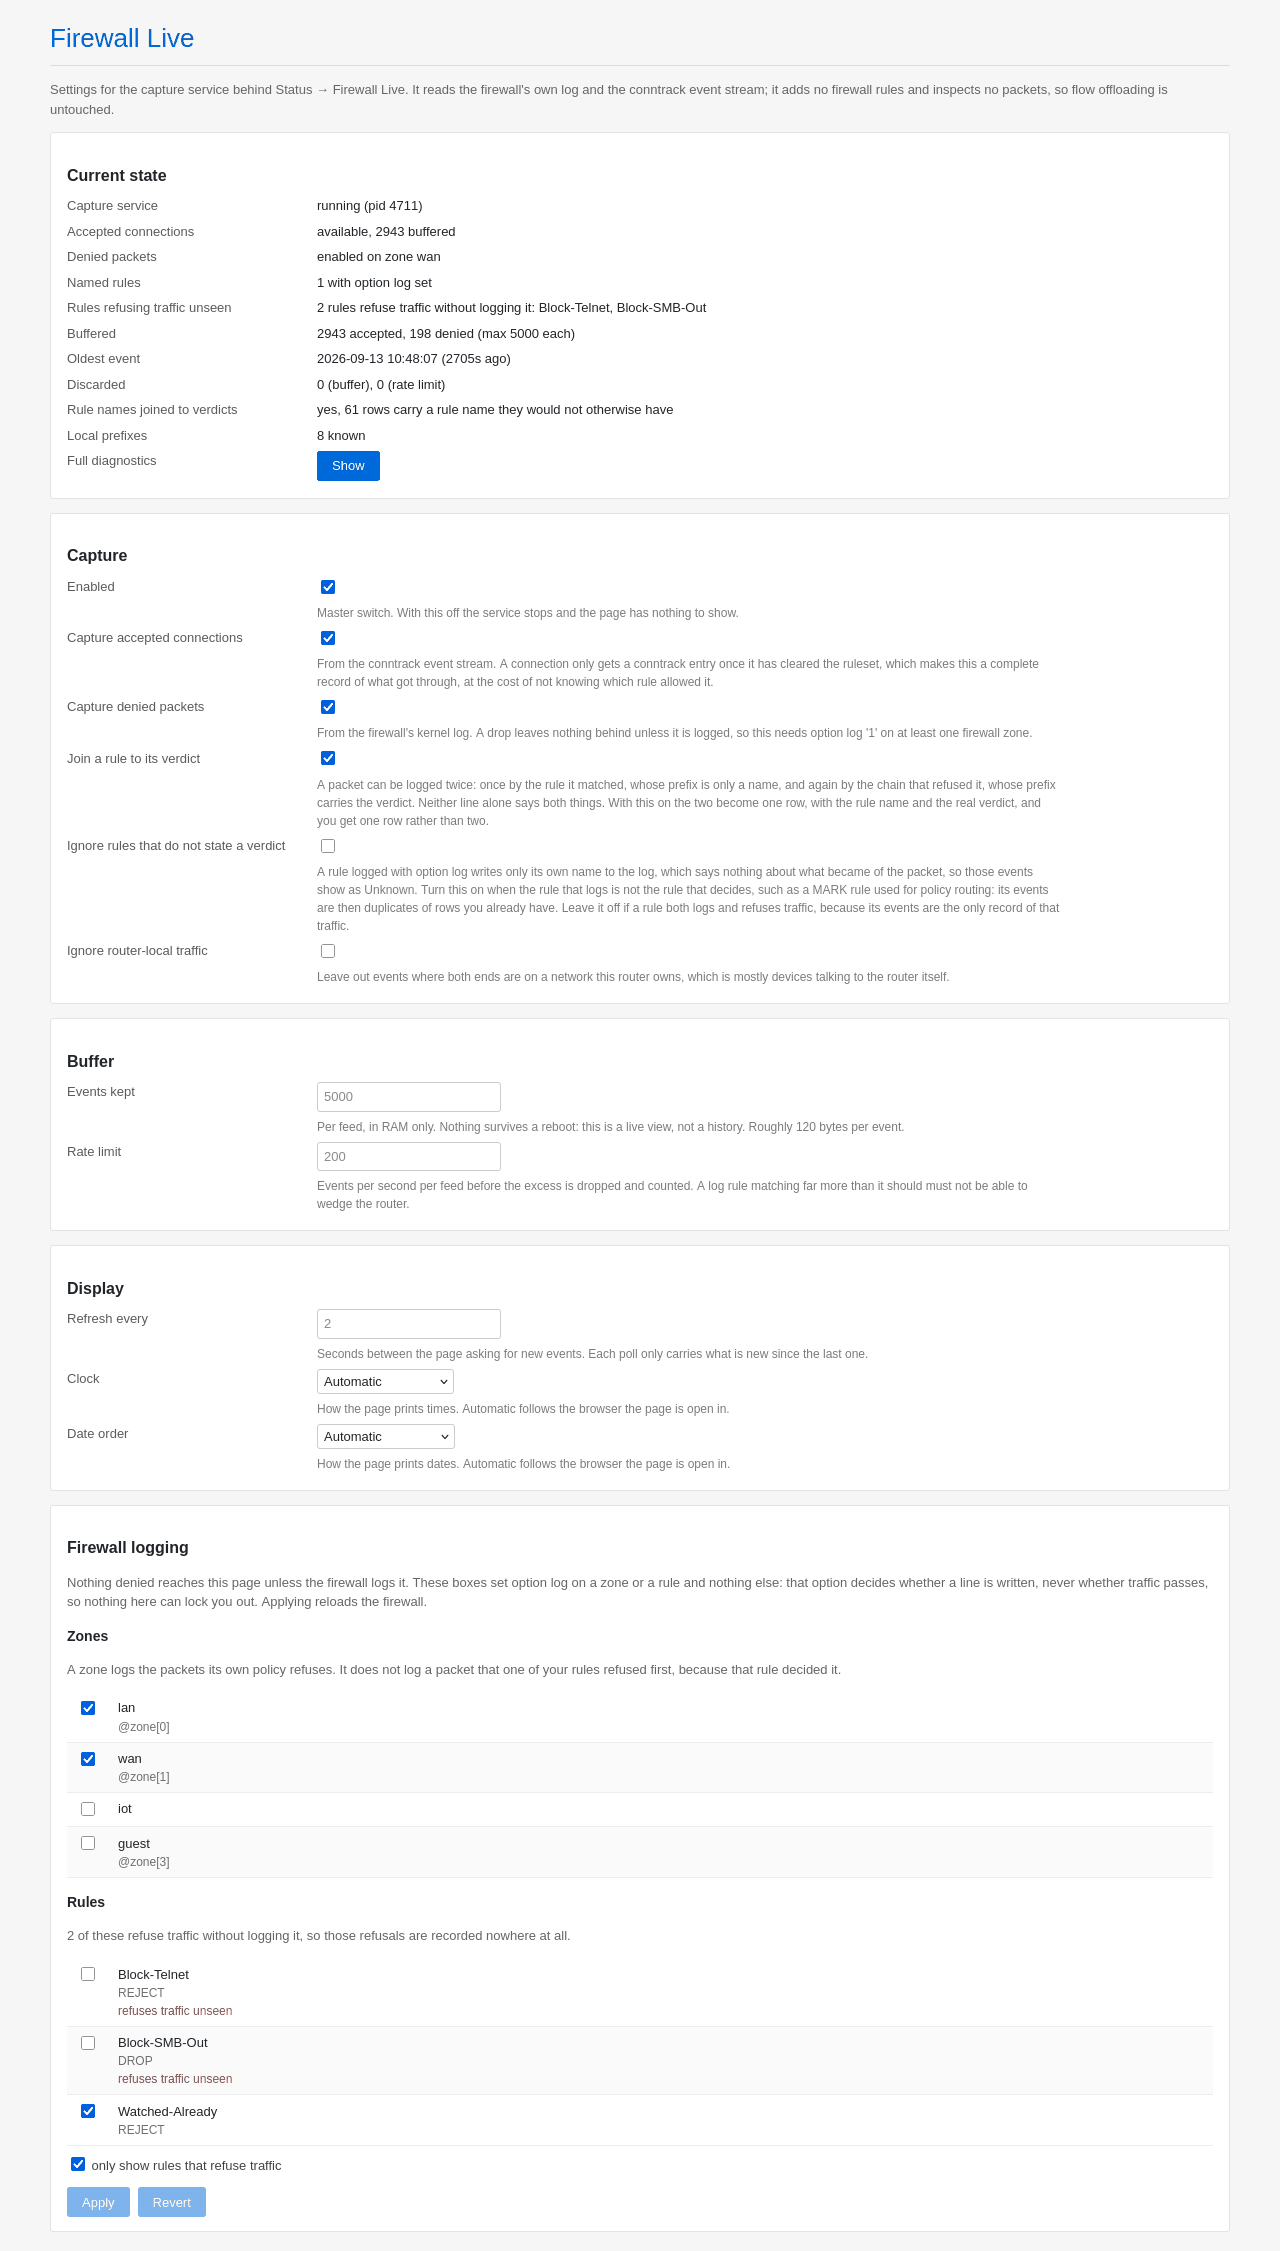
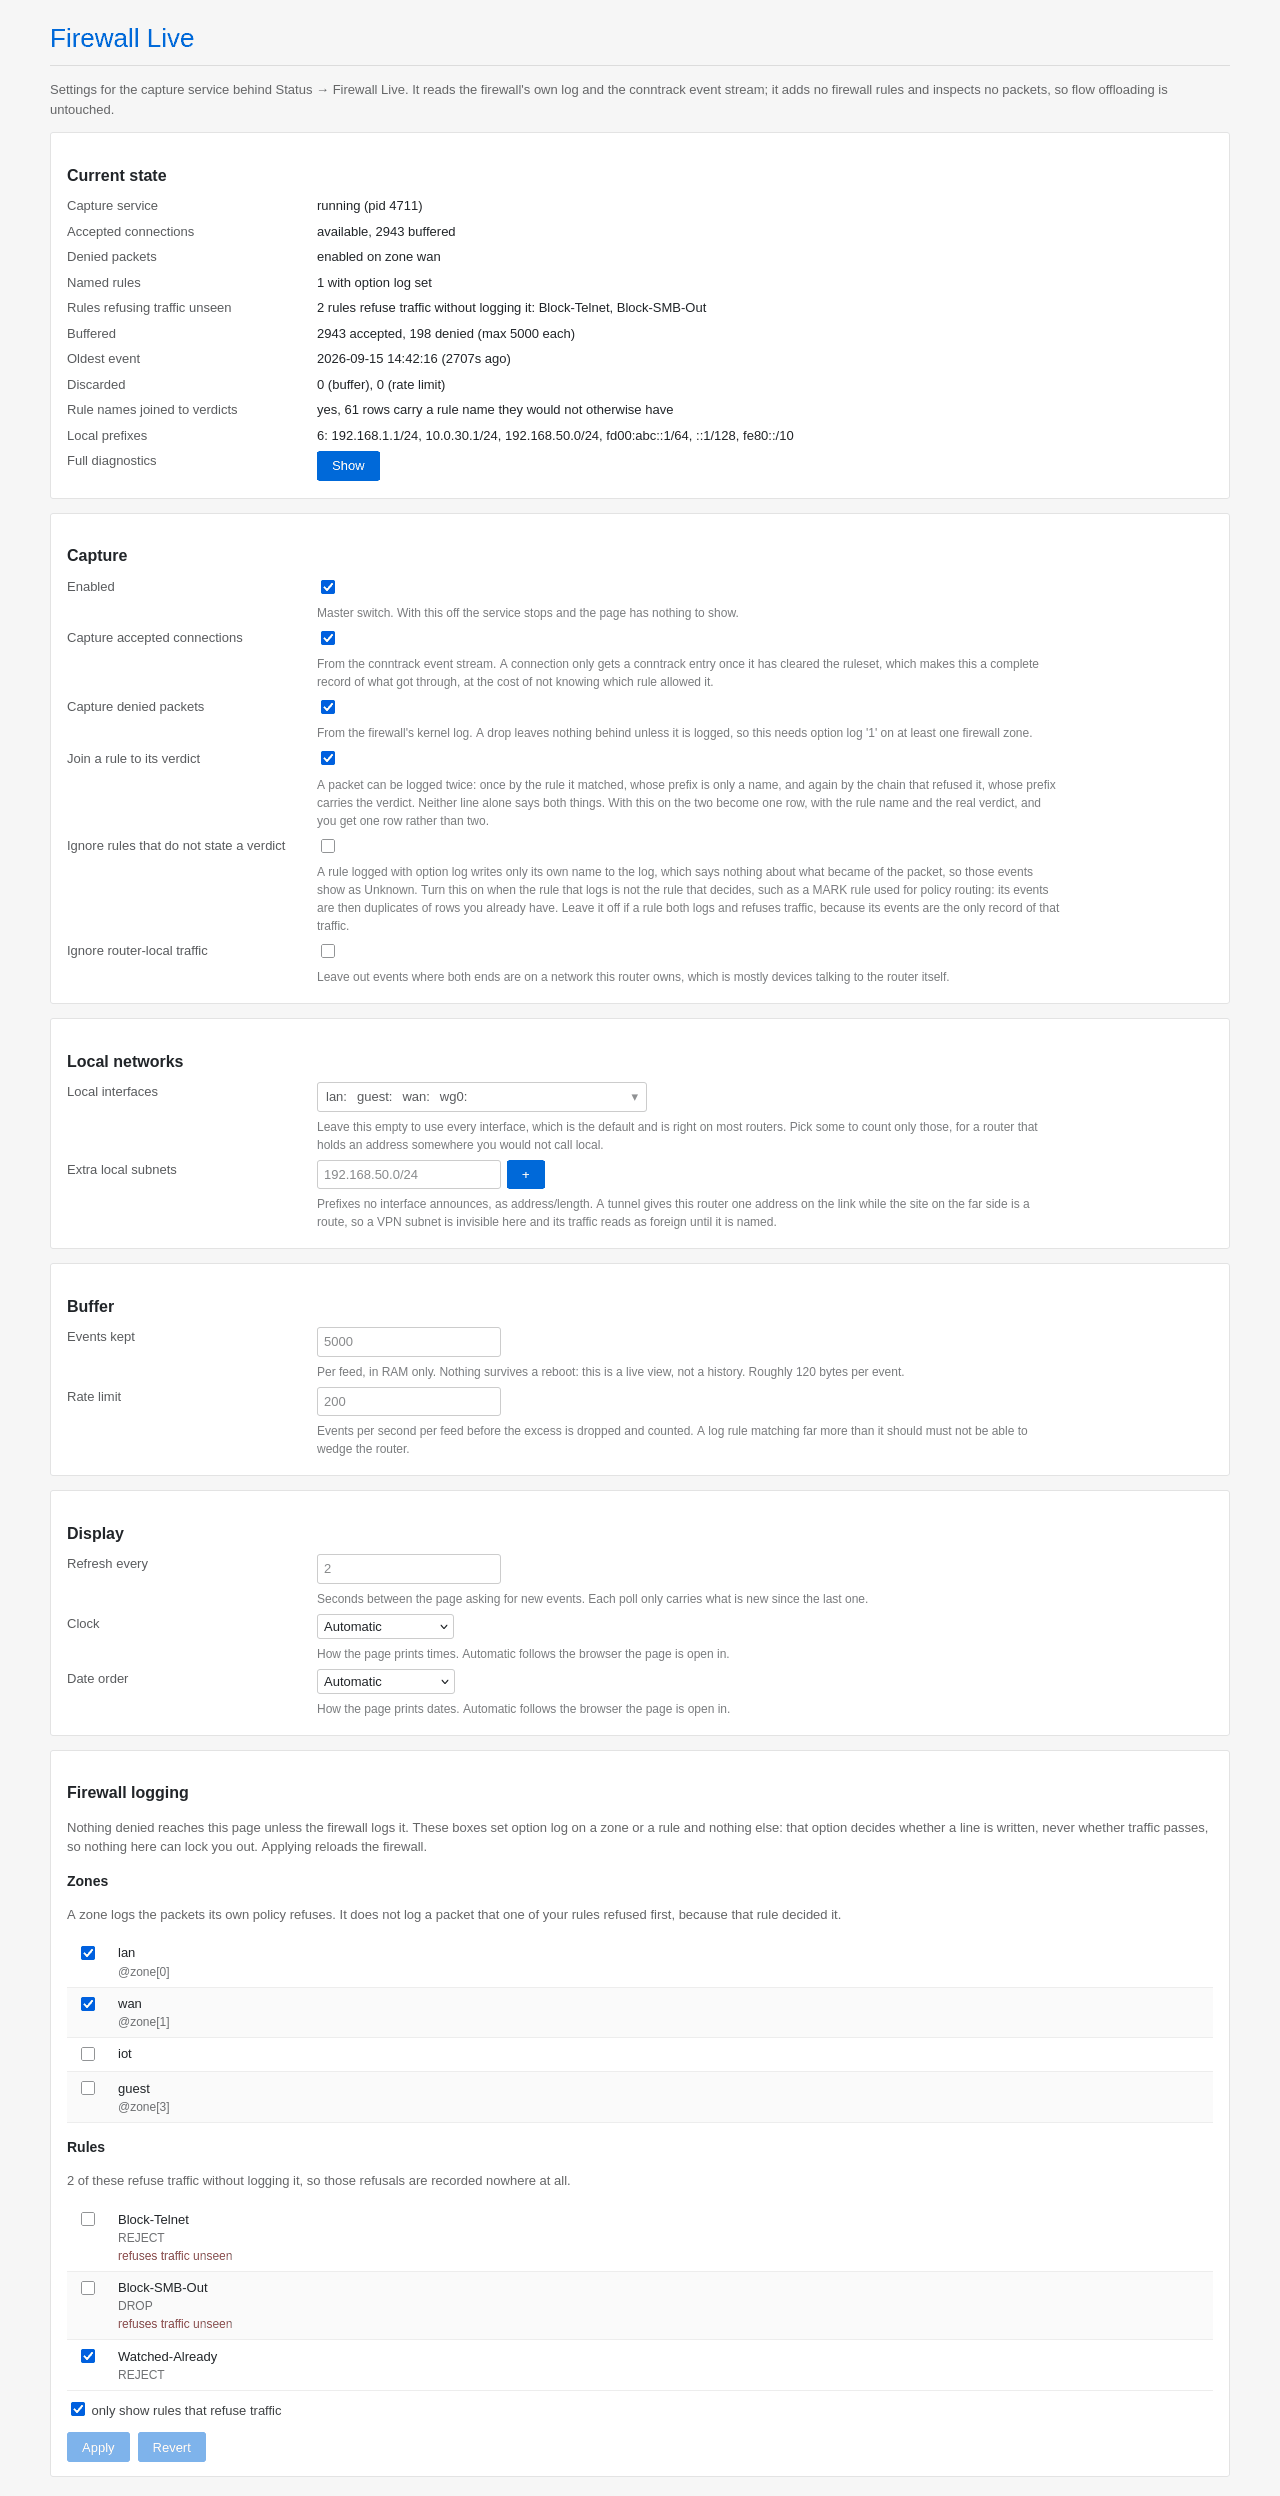
Let the user say what counts as a local network

diff --git a/package/luci-app-fw-live/files/www/luci-static/resources/view/fw-live/settings.js b/package/luci-app-fw-live/files/www/luci-static/resources/view/fw-live/settings.js
@@ -1,6 +1,7 @@
 'use strict';
 'require view';
 'require form';
+'require tools.widgets as widgets';
 'require rpc';
 'require ui';
 
@@ -295,6 +296,32 @@ return view.extend({
 			  'mostly devices talking to the router itself.'));
 		o.default = '0';
 		o.rmempty = false;
+
+		s = m.section(form.NamedSection, 'main', 'fw_live', _('Local networks'));
+		s.anonymous = true;
+		s.addremove = false;
+		s.description = _('What counts as local decides the direction column, In, Out or ' +
+			'Local, and what the setting above leaves out. Every address this router ' +
+			'holds is found on its own; these two are for saying it differently.');
+
+		// The same control the rest of LuCI uses to pick networks, so the list
+		// carries each one's device and reads like Network -> Interfaces does.
+		o = s.option(widgets.NetworkSelect, 'local_network', _('Local interfaces'),
+			_('Leave this empty to use every interface, which is the default and is ' +
+			  'right on most routers. Pick some to count only those, for a router that ' +
+			  'holds an address somewhere you would not call local.'));
+		o.multiple = true;
+		o.nocreate = true;
+		o.rmempty = true;
+
+		o = s.option(form.DynamicList, 'local_subnet', _('Extra local subnets'),
+			_('Prefixes no interface announces, as address/length. A tunnel gives this ' +
+			  'router one address on the link while the site on the far side is a route, ' +
+			  'so a VPN subnet is invisible here and its traffic reads as foreign until ' +
+			  'it is named.'));
+		o.datatype = 'cidr';
+		o.placeholder = '192.168.50.0/24';
+		o.rmempty = true;
 
 		s = m.section(form.NamedSection, 'main', 'fw_live', _('Buffer'));
 		s.anonymous = true;

diff --git a/tools/preview.py b/tools/preview.py
@@ -110,7 +110,8 @@ STATUS = {"status": {
     "ignore unknown": "no",
     "merge rules": "yes, 61 rows carry a rule name they would not otherwise have",
     "event rate": "7.6/s accepted, 3.6/s denied",
-    "local prefixes": "8 known",
+    "local prefixes": "6: 192.168.1.1/24, 10.0.30.1/24, 192.168.50.0/24, "
+                      "fd00:abc::1/64, ::1/128, fe80::/10",
 }}
 
 # Close enough to LuCI's bootstrap themes to be honest about the layout. The
@@ -457,6 +458,7 @@ const ui = {
 const form = {
 	NamedSection: 'NamedSection', DummyValue: 'DummyValue', Value: 'Value',
 	Flag: 'Flag', ListValue: 'ListValue', Button: 'Button',
+	DynamicList: 'DynamicList',
 	Map: function (cfg, title, descr) {
 		this.secs = [];
 		this.section = function (kind, name, type, label) {
@@ -497,6 +499,21 @@ const form = {
 					}
 					else if (o.type === 'Button') {
 						val.appendChild(E('button', { 'class': 'cbi-button' }, o.inputtitle || _('Go')));
+					}
+					else if (o.type === 'NetworkSelect') {
+						// luci-base draws each network with its device; the shape
+						// is what matters here, not the icons
+						val.appendChild(E('div', { 'class': 'cbi-dropdown', style:
+							'border:1px solid rgba(128,128,128,0.4);border-radius:3px;' +
+							'padding:4px 8px;display:inline-block;min-width:24em' },
+							FAKE_NETWORKS.map(function (n) {
+								return E('span', { style: 'margin-right:10px;opacity:0.75' }, n + ':');
+							}).concat([ E('span', { style: 'float:right;opacity:0.5' }, '\u25be') ])));
+					}
+					else if (o.type === 'DynamicList') {
+						val.appendChild(E('input', { type: 'text', 'class': 'cbi-input-text',
+							placeholder: o.placeholder || '' }));
+						val.appendChild(E('button', { 'class': 'cbi-button', style: 'margin-left:6px' }, '+'));
 					}
 					else if (o.rawhtml) val.innerHTML = v;
 					else val.textContent = String(v);
@@ -571,8 +588,14 @@ def write_settings_page(work, dark=False, fixture=None):
 <script>
 window.FIXTURE = %s;
 %s
-const mod = new Function('view', 'form', 'rpc', 'ui', 'E', '_', 'L',
-	document.getElementById('viewsrc').textContent)(view, form, rpc, ui, E, _, L);
+// The names the settings view requires, in the order it lists them. network
+// comes from the shared stubs above, which both pages get.
+// What the settings view requires, in the order it lists them. tools.widgets
+// is luci-base's, and only the one control used from it is stubbed.
+const FAKE_NETWORKS = [ 'lan', 'guest', 'wan', 'wg0' ];
+const widgets = { NetworkSelect: 'NetworkSelect' };
+const mod = new Function('view', 'form', 'widgets', 'rpc', 'ui', 'E', '_', 'L',
+	document.getElementById('viewsrc').textContent)(view, form, widgets, rpc, ui, E, _, L);
 mod.load().then(function (res) {
 	return mod.render(res);
 }).then(function (node) {

diff --git a/README.md b/README.md
@@ -1,4 +1,4 @@
-# luci-app-fw-live 1.0.5
+# luci-app-fw-live 1.0.6
 
 A live view of what your firewall is accepting and refusing, for OpenWrt. It
 shows connections as they happen, under **Status → Firewall Live**, with a
@@ -70,13 +70,13 @@ same file works on any target. Take the one your release can install, from the
 
 OpenWrt 25.12 and newer, `luci-app-fw-live-<version>.apk`:
 
-    scp luci-app-fw-live-1.0.5-r1.apk root@192.168.1.1:/tmp/
-    ssh root@192.168.1.1 'apk add --allow-untrusted /tmp/luci-app-fw-live-1.0.5-r1.apk'
+    scp luci-app-fw-live-1.0.6-r1.apk root@192.168.1.1:/tmp/
+    ssh root@192.168.1.1 'apk add --allow-untrusted /tmp/luci-app-fw-live-1.0.6-r1.apk'
 
 OpenWrt 24.10 and older, `luci-app-fw-live_<version>_all.ipk`:
 
-    scp luci-app-fw-live_1.0.5-1_all.ipk root@192.168.1.1:/tmp/
-    ssh root@192.168.1.1 'opkg install /tmp/luci-app-fw-live_1.0.5-1_all.ipk'
+    scp luci-app-fw-live_1.0.6-1_all.ipk root@192.168.1.1:/tmp/
+    ssh root@192.168.1.1 'opkg install /tmp/luci-app-fw-live_1.0.6-1_all.ipk'
 
 **Option B: no package manager.** Copy the source tree to the router and run
 `install.sh` on it:
@@ -393,6 +393,8 @@ The same options live in `/etc/config/fw-live`:
 | `max_rate` | `200` | events/second per feed before the excess is shed |
 | `poll_interval` | `2` | how often the page asks for new events, seconds |
 | `ignore_local` | `0` | drop events with both ends on a local network |
+| `local_network` | every interface | list: uci network interfaces that count as local |
+| `local_subnet` | none | list: extra local prefixes, as `address/length` |
 | `merge_rules` | `1` | fold a rule's log line into the verdict line for the same packet |
 | `ignore_unknown` | `0` | drop log events whose prefix does not state a verdict |
 | `time_format` | `auto` | clock: `auto`, `24` or `12` |
@@ -414,6 +416,13 @@ far more than it should, the excess is counted and dropped rather than allowed
 to fill RAM; the count shows up as `discarded` in the status output and on the
 page. `ignore_local` is worth turning on if most of what you see is devices
 talking to the router itself.
+
+What counts as local decides the direction column and what `ignore_local`
+leaves out. Every address the router holds is found on its own, so both list
+options are usually unset. `local_subnet` is the one worth knowing about: a
+tunnel gives the router one address on the link while the site on the far side
+is a route, so a VPN subnet is invisible to netifd and its traffic reads as
+foreign until it is named.
 
 ## Troubleshooting
 

diff --git a/CLAUDE.md b/CLAUDE.md
@@ -449,6 +449,15 @@ Worth not repeating:
   the default rule run `make` in an empty build directory and fail.
 - Forgetting `/tmp/luci-modulecache` when clearing LuCI caches, so a newly
   installed page stays invisible until something else invalidates it.
+- **A second `const network` in the preview's settings page**, from adding
+  `'require network'` to `settings.js` without noticing that `tools/preview.py`
+  already declares that stub for the live page. A duplicate `const` is a parse
+  error, so the whole inline script died before the `catch` that is there to
+  print what went wrong: `--screenshots` produced a 1280x20 blank image and
+  said nothing. Adding a `require` to a view means the preview has to pass that
+  name too, in the order the view lists them, and the way to check it is
+  `node --check` on the inline script the page generates rather than the view
+  file, which parses fine on its own.
 - **`sed 's|^\.|/|'` over `find .` output**, which put `//etc/config/fw-live`
   into the apk's file list instead of `/etc/config/fw-live`. The pattern
   matches the dot alone, so the slash `find` already printed survives and the
